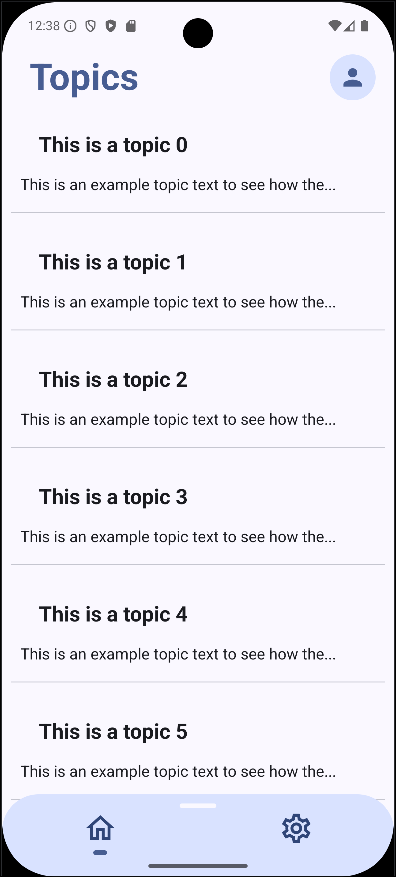
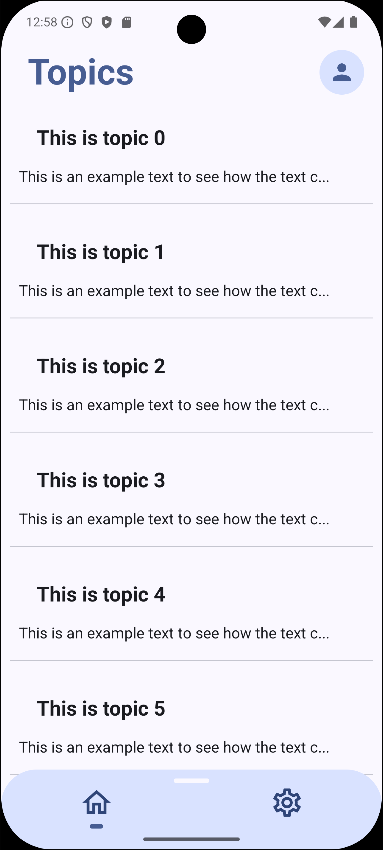
Add README

diff --git a/app/src/main/java/com/example/topics/topics/TopicScreenViewModel.kt b/app/src/main/java/com/example/topics/topics/TopicScreenViewModel.kt
@@ -32,19 +32,19 @@ class TopicScreenViewModel(
         }
     }
 
-    fun deleteTopicById() {
-        viewModelScope.launch {
-            if (topic.value.id != -1) {
-                try {
-                    databaseConnector.deleteTopicById(topic.value.id)
-                } catch (e: HttpException) {
-                    Log.e("HomeViewModel Delete", e.message())
-                }
-            } else {
-                Log.e("TopicScreenViewModel", "No topic id to delete")
-            }
-        }
-    }
+//    fun deleteTopicById() {
+//        viewModelScope.launch {
+//            if (topic.value.id != -1) {
+//                try {
+//                    databaseConnector.deleteTopicById(topic.value.id)
+//                } catch (e: HttpException) {
+//                    Log.e("HomeViewModel Delete", e.message())
+//                }
+//            } else {
+//                Log.e("TopicScreenViewModel", "No topic id to delete")
+//            }
+//        }
+//    }
 
     fun fetchComments(topicId: Int?) {
         if (topicId != null) {
@@ -59,7 +59,10 @@ class TopicScreenViewModel(
                     commentsList.add(
                         Comment(
                             id = i,
-                            content = "Comment number $i",
+                            content = "Lorem ipsum dolor sit amet, " +
+                                    "consectetur adipiscing elit. Maecenas vitae risus id " +
+                                    "neque vehicula sollicitudin eget vitae nulla. " +
+                                    "Aliquam tempus euismod volutpat. Integer sit amet.",
                             topic_id = topicId
                         )
                     )

diff --git a/app/src/main/java/com/example/topics/database/DatabaseConnector.kt b/app/src/main/java/com/example/topics/database/DatabaseConnector.kt
@@ -20,7 +20,7 @@ class DatabaseConnector(
         val topics = mutableListOf<Topic>()
 
         for(i in 0..15){
-            topics.add(Topic(id = i, title = "This is a topic $i", text = "This is an example topic text to see how " +
+            topics.add(Topic(id = i, title = "This is topic $i", text = "This is an example text to see how " +
                     "the text cutting functionality works"))
         }
 
@@ -46,7 +46,7 @@ class DatabaseConnector(
 //            Topic(id = -1, title = "", text = "")
 //        }
 
-        val topic = Topic(id = id, title = "This is a topic $id", text = "This is an example topic text to see how " +
+        val topic = Topic(id = id, title = "This is a topic $id", text = "This is an example text to see how " +
                 "the text cutting functionality works")
 
         if (topic.title.length > 25) {
@@ -58,9 +58,7 @@ class DatabaseConnector(
     }
 
     suspend fun deleteTopicById(id: Int){
-        //TODO: implement did succeed checking
-
-        val response = apiClient.deleteTopicById(id)
+//        val response = apiClient.deleteTopicById(id)
     }
 //
 //    suspend fun addNewComment(topicId: Int, text: String) {

diff --git a/app/src/main/java/com/example/topics/database/HttpClient.kt b/app/src/main/java/com/example/topics/database/HttpClient.kt
@@ -7,7 +7,7 @@ import retrofit2.converter.gson.GsonConverterFactory
 class HttpClient {
     fun getService(): ApiClient? {
         val retrofit: Retrofit = Retrofit.Builder()
-            .baseUrl("http://192.168.0.193:6000/")
+            .baseUrl("http://127.0.0.1:6000/")
             .addConverterFactory(GsonConverterFactory.create())
             .build()
         return retrofit.create(ApiClient::class.java)

diff --git a/app/src/main/java/com/example/topics/MainActivity.kt b/app/src/main/java/com/example/topics/MainActivity.kt
@@ -68,7 +68,7 @@ import dev.chrisbanes.haze.rememberHazeState
 import kotlinx.coroutines.flow.map
 import org.koin.compose.koinInject
 
-val Context.dataStore: DataStore<Preferences> by preferencesDataStore(name = "settings")
+//val Context.dataStore: DataStore<Preferences> by preferencesDataStore(name = "settings")
 
 class MainActivity : ComponentActivity() {
     @RequiresApi(Build.VERSION_CODES.R)

diff --git a/README.md b/README.md
@@ -25,7 +25,7 @@
 |------|---------|
 | [Jetpack Compose](https://developer.android.com/jetpack/compose) | Declarative UI toolkit for modern Android apps |
 | [Koin](https://insert-koin.io/) | Lightweight dependency injection |
-| [Haze](https://github.com/ehsanmomeni/Haze) | Easy blur effect implementation |
+| [Haze](https://github.com/chrisbanes/haze) | Easy blur effect implementation |
 
 ---
 
